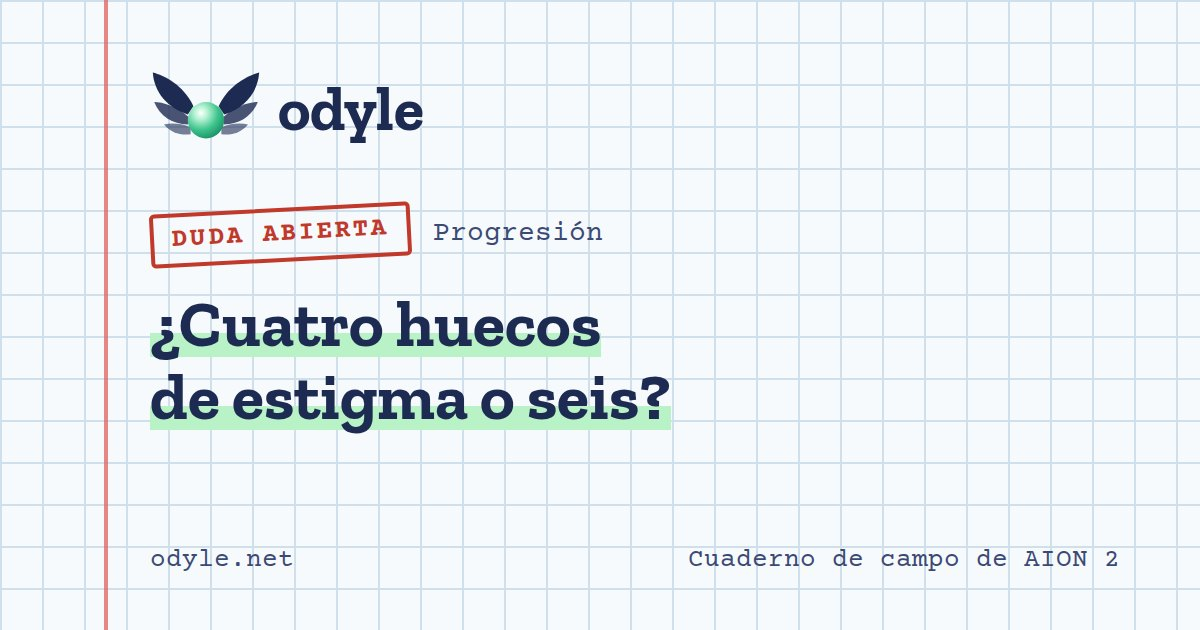
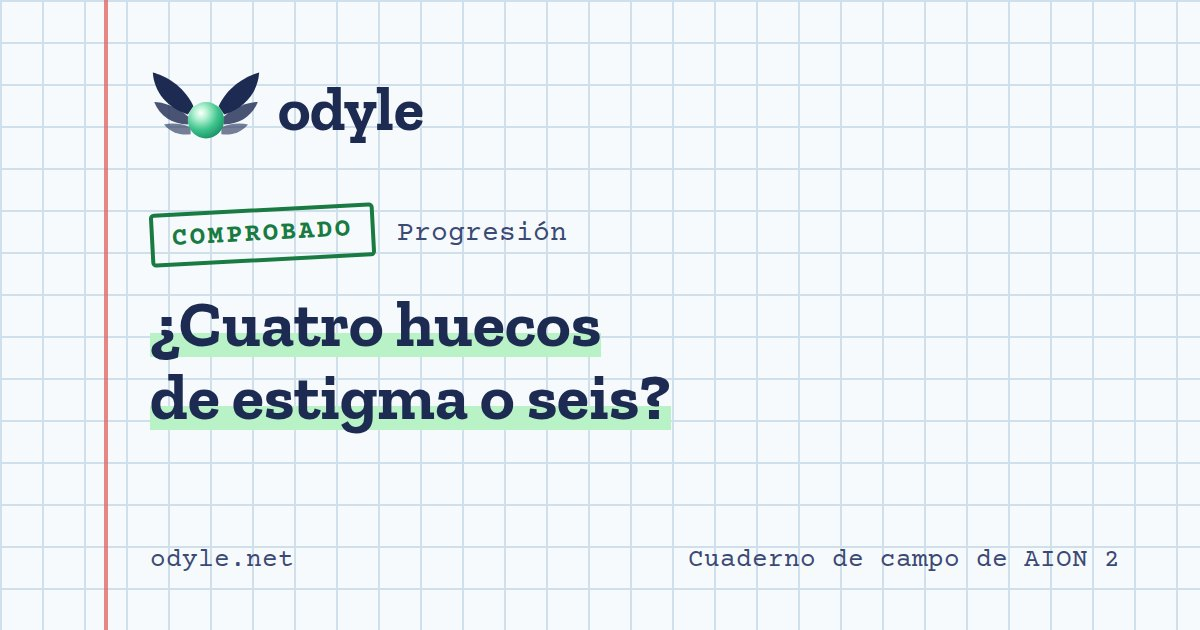
Huecos de estigma: visto en el cliente, pasa a comprobado

Changed region(s): [[0.1233, 0.3016, 0.4933, 0.4524]]

diff --git a/src/content/entries/es/huecos-de-estigma-cuatro-o-seis.md b/src/content/entries/es/huecos-de-estigma-cuatro-o-seis.md
@@ -1,13 +1,19 @@
 ---
 title: ¿Cuatro huecos de estigma o seis?
-description: Una guía del cliente global dice cuatro huecos y tope en nivel 20; la versión coreana actual tiene seis y tope en 25. Falta verlo.
-status: duda
+description: En el cliente global son cuatro, y 13 estigmas por clase. Las guías que hablan de seis huecos y 18 estigmas cuentan la versión coreana actual.
+status: comprobado
 topic: progresion
+verifiedAt: 2026-10-07
+where: { zone: Verteron, level: 26 }
+firstHand: true
 sources:
   - { title: 'AION 2 Stigma Guide: Slots, Shards and Best Stigmas — metabot', url: 'https://metabot.gg/en/aion-2/guides/stigma-guide', lang: en }
   - { title: 'AION 2 Stigma: How to Build Your Skills — Gamers Together', url: 'https://gamerstogether.cz/en/aion-2-stigma-system/', lang: en }
   - { title: 'AION 2 Global Client Datamine, What the Launch Build Contains — MetaRoad', url: 'https://metaroad.gg/aion2/news/aion-2-global-client-datamine-what-the-launch-build-contains', lang: en }
-updated: 2026-10-06
+history:
+  - { date: 2026-10-06, note: 'Publicada como duda: una guía decía cuatro huecos y otras seis.' }
+  - { date: 2026-10-07, note: 'Visto en mi pantalla a nivel 26: cuatro casillas y 13 estigmas. Pasa a comprobado.' }
+updated: 2026-10-07
 translationKey: huecos-de-estigma-cuatro-o-seis
 ---
 
@@ -20,10 +26,14 @@ Hay dos versiones:
 
 ## Lo que pasa
 
-Todavía no lo he visto: los estigmas se abren a nivel 22.
+Son cuatro. A nivel 26, la pestaña de estigmas de mi Gladiator enseña 13 estigmas, no 18, y la barra tiene cuatro casillas para ellos.
 
-Lo que ha salido después apunta a cuatro. Quien ha abierto el cliente de lanzamiento cuenta cuatro huecos, y una guía hecha con esos datos dice que la temporada 1 trae 13 estigmas por clase en vez de 18.
+De los 13 tenía uno abierto, Wrath Wave, y los otros doce con candado. Las mejoras de un estigma saltan a nivel 5, 10, 15 y 20, lo que cuadra con el tope en 20. Subir Wrath Wave de 1 a 2 cuesta un fragmento.
 
-## Cómo se va a comprobar
+Lo que no he visto todavía es en qué nivel se abre cada casilla: las guías dicen 27, 32 y 37 para las tres que me faltan.
 
-Al llegar a nivel 22 miraré cuántos huecos enseña la pestaña de estigmas, y a 37 cuántos hay abiertos. Hasta entonces, planifica con cuatro.
+## Qué hacer
+
+Planifica con cuatro huecos y 13 estigmas. Si una guía te recomienda un estigma que no encuentras en tu lista, es de la versión coreana.
+
+Los fragmentos son pocos mientras subes, así que no los repartas: elige los estigmas que vas a llevar y sube esos.
